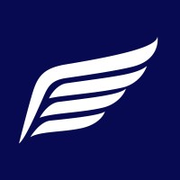
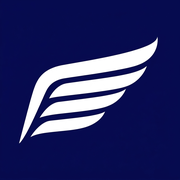
feat: full-resolution mark, cut out from its tile
The supplied 1024px logo replaces the 200px thumbnail everything was being
generated from. Its navy samples at #060B4F, so the sampled palette holds.

Cut the wing out of its navy tile into a transparent PNG, computing alpha per
pixel from how far each has travelled from navy toward white, which keeps the
antialiased edges. The nav and hero now use the cut-out: no tile edge, and the
mark fills its footprint instead of spending most of it on the tile's padding.

Favicons, apple touch icon and the social card regenerated from the real source
rather than upscaled from a thumbnail.

diff --git a/index.html b/index.html
@@ -38,7 +38,7 @@
 <nav class="nav">
   <div class="wrap">
     <a class="brand" href="#home">
-      <img src="assets/cada-logo.jpeg" alt="">
+      <img src="assets/cada-wing.png" alt="">
       <span>CADA</span>
     </a>
     <div class="nav-links">
@@ -57,7 +57,7 @@
     <header class="hero">
       <canvas id="field" aria-hidden="true"></canvas>
       <div class="hero-inner">
-        <img class="hero-mark" src="assets/cada-logo.jpeg" alt="Claremont Aerospace &amp; Defense Association">
+        <img class="hero-mark" src="assets/cada-wing.png" alt="Claremont Aerospace &amp; Defense Association">
         <h1>Claremont Aerospace<br><span class="amp">&amp;</span> Defense Association</h1>
         <p class="hero-line">Engineering, capital, and policy judgment for companies building in aerospace and defense.</p>
         <dl class="triptych"><div><dt>Technical</dt><dd>Can it be built?</dd></div><div><dt>Finance</dt><dd>Can it be funded, and can it win contracts?</dd></div><div><dt>Policy</dt><dd>Can it be sold to the government?</dd></div></dl>
@@ -108,6 +108,22 @@
         <p class="lede">Your engineers are booked on production-critical work, and the useful but not urgent items never reach the top of the list: a legacy process audit, a speculative idea nobody can justify senior hours on, a landscape scan, a question the team stopped seeing years ago. That is what we take. We are not trying to out-engineer anyone, and we do not take on classified work, controlled technical data, or anything inside an export control boundary.</p>
       </div>
     </section></section>
+  <section class="band band-deep">
+      <div class="wrap">
+        <p class="eyebrow">Modeled in a recent engagement</p>
+        <div class="proof">
+          <div><p class="v">$635K</p><p class="l">Modeled cost reduction per survey</p></div><div><p class="v">90%+</p><p class="l">Inspection time removed</p></div><div><p class="v">7</p><p class="l">Use cases scoped and specified</p></div><div><p class="v">3</p><p class="l">Practices on one account</p></div>
+        </div>
+      </div>
+    </section>
+
+    <section class="band band-paper">
+      <div class="wrap">
+        <p class="eyebrow on-paper">Scope</p>
+        <h2>The work your team never gets to.</h2>
+        <p class="lede">Your engineers are booked on production-critical work, and the useful but not urgent items never reach the top of the list: a legacy process audit, a speculative idea nobody can justify senior hours on, a landscape scan, a question the team stopped seeing years ago. That is what we take. We are not trying to out-engineer anyone, and we do not take on classified work, controlled technical data, or anything inside an export control boundary.</p>
+      </div>
+    </section></section>
   <section class="page" id="page-capabilities">
     <section class="band band-paper">
       <div class="wrap">
@@ -137,6 +153,19 @@
     </section>
 
     <section class="band band-ink">
+      <div class="wrap">
+        <p class="eyebrow">How an engagement works</p>
+        <h2>Scope first, then propose.</h2>
+        <div class="steps">
+          
+            <div class="step"><p class="k">Scope</p><p class="d">A short call to find the actual gap. We ask what is off limits from the start, including anything export controlled or classified, before proposing anything.</p></div>
+            <div class="step"><p class="k">Team</p><p class="d"><span class="todo">TO CONFIRM</span> Typical team size and how the three practices are staffed against one account.</p></div>
+            <div class="step"><p class="k">Cadence</p><p class="d"><span class="todo">TO CONFIRM</span> Semester length, check-in frequency, and whether engagements run as one project or continuously.</p></div>
+            <div class="step"><p class="k">Deliverable</p><p class="d"><span class="todo">TO CONFIRM</span> What a client receives at the end and in what form.</p></div>
+        </div>
+      </div>
+    </section></section>
+  <section class="band band-ink">
       <div class="wrap">
         <p class="eyebrow">How an engagement works</p>
         <h2>Scope first, then propose.</h2>
@@ -300,6 +329,70 @@
       </section>
       </div>
     </section></section>
+  <section class="team-group">
+        <header class="team-head">
+          <p class="eyebrow on-paper">Finance</p>
+          <p class="team-q">Can it be funded, and can it win contracts?</p>
+          <p class="team-n">4</p>
+        </header>
+        <div class="roster">
+          
+            <button class="pcard" type="button" data-member="0">
+              <span class="pcard-frame">
+                <img src="assets/people/shelby-tang.jpg" alt="Shelby Tang" loading="lazy">
+              </span>
+              <span class="pcard-name">Shelby Tang</span>
+              <span class="pcard-meta">CMC &#39;29 · Founder</span>
+            </button>
+            <button class="pcard" type="button" data-member="5">
+              <span class="pcard-frame">
+                <img src="assets/people/krish-malhotra.jpg" alt="Krish Malhotra" loading="lazy">
+              </span>
+              <span class="pcard-name">Krish Malhotra</span>
+              <span class="pcard-meta">CMC &#39;28</span>
+            </button>
+            <button class="pcard" type="button" data-member="6">
+              <span class="pcard-frame">
+                <img src="assets/people/lalita-poolvoralaks.jpg" alt="Lalita Poolvoralaks" loading="lazy">
+              </span>
+              <span class="pcard-name">Lalita Poolvoralaks</span>
+              <span class="pcard-meta">CMC &#39;27</span>
+            </button>
+            <button class="pcard" type="button" data-member="7">
+              <span class="pcard-frame">
+                <img src="assets/people/shayan-abbasi.jpg" alt="Shayan Abbasi" loading="lazy">
+              </span>
+              <span class="pcard-name">Shayan Abbasi</span>
+              <span class="pcard-meta">CMC &#39;29</span>
+            </button>
+        </div>
+      </section>
+      <section class="team-group">
+        <header class="team-head">
+          <p class="eyebrow on-paper">Policy</p>
+          <p class="team-q">Can it be sold to the government?</p>
+          <p class="team-n">2</p>
+        </header>
+        <div class="roster">
+          
+            <button class="pcard" type="button" data-member="8">
+              <span class="pcard-frame">
+                <img src="assets/people/jasper-langley-hawthorne.jpg" alt="Jasper Langley-Hawthorne" loading="lazy">
+              </span>
+              <span class="pcard-name">Jasper Langley-Hawthorne</span>
+              <span class="pcard-meta">CMC &#39;27</span>
+            </button>
+            <button class="pcard" type="button" data-member="9">
+              <span class="pcard-frame">
+                <img src="assets/people/andrew-nelson.jpg" alt="Andrew Nelson" loading="lazy">
+              </span>
+              <span class="pcard-name">Andrew Nelson</span>
+              <span class="pcard-meta">CMC &#39;29</span>
+            </button>
+        </div>
+      </section>
+      </div>
+    </section></section>
   <section class="page" id="page-join">
     <section class="band band-ink">
       <div class="wrap">
@@ -314,6 +407,15 @@
     </section>
 
     <section class="band band-paper">
+      <div class="wrap">
+        <p class="eyebrow on-paper">Training</p>
+        <h2>The analyst training program</h2>
+        <p class="lede">New analysts are trained on the federal data sources the work actually runs on: USAspending, FPDS, SEC EDGAR, and the procurement records underneath them. You learn to find what a company has won, from whom, and on what terms, which is a skill almost nobody graduates with.</p>
+        <p class="eyebrow on-paper" style="margin-top:3rem">Who we look for</p>
+        <ul class="plainlist"><li>Engineers who have built and flown something</li><li>Analysts comfortable in primary source data rather than summaries</li><li>Anyone who can read a procurement regulation without flinching</li></ul>
+      </div>
+    </section></section>
+  <section class="band band-paper">
       <div class="wrap">
         <p class="eyebrow on-paper">Training</p>
         <h2>The analyst training program</h2>

diff --git a/styles.css b/styles.css
@@ -128,7 +128,7 @@ a { color: inherit; }
 .nav .wrap { display: flex; align-items: center; gap: 1.5rem; width: 100%; }
 
 .brand { display: flex; align-items: center; gap: 0.7rem; text-decoration: none; margin-right: auto; }
-.brand img { width: 30px; height: 30px; border-radius: 5px; display: block; }
+.brand img { width: 38px; height: auto; display: block; }
 .brand span {
   font-family: var(--display); color: var(--white);
   font-size: 17px; letter-spacing: 0.14em; text-transform: uppercase;
@@ -160,10 +160,12 @@ a { color: inherit; }
 
 .hero-inner { position: relative; z-index: 2; padding: calc(var(--nav-h) + 3rem) var(--pad) 6rem; }
 
+/* The mark is a cut-out on transparency rather than the square tile it ships
+   in, so it sits on the ground directly instead of inside a visible panel, and
+   fills its footprint instead of spending most of it on the tile's padding. */
 .hero-mark {
-  width: 92px; height: 92px; border-radius: 14px;
-  display: block; margin: 0 auto 2.6rem;
-  box-shadow: 0 0 0 1px var(--ink-line), 0 30px 70px -30px rgba(0,0,0,0.9);
+  width: clamp(128px, 15vw, 186px); height: auto;
+  display: block; margin: 0 auto 2.4rem;
 }
 
 .hero h1 {

diff --git a/render.js b/render.js
@@ -73,7 +73,7 @@ function homeHTML() {
     <header class="hero">
       <canvas id="field" aria-hidden="true"></canvas>
       <div class="hero-inner">
-        <img class="hero-mark" src="assets/cada-logo.jpeg" alt="${esc(C.org.name)}">
+        <img class="hero-mark" src="assets/cada-wing.png" alt="${esc(C.org.name)}">
         <h1>Claremont Aerospace<br><span class="amp">&amp;</span> Defense Association</h1>
         <p class="hero-line">${txt(C.org.heroLine)}</p>
         <dl class="triptych">${heroTriptych()}</dl>

diff --git a/README.md b/README.md
@@ -137,9 +137,16 @@ file shipped here and the one that matched DIN Condensed Bold. Asking for 700
 would make the browser fake a heavier face and the labels would come out fatter
 than the design.
 
-**Known limitation.** The logo is a 200 by 200 pixel JPEG. That is enough for the
-navigation mark and the cover badge and not enough for anything larger. Get a
-vector version, or an export at 1000 pixels or more, before scaling it up.
+**The mark.** `assets/cada-logo.jpeg` is the 1024 pixel original and is kept as
+the source of record. The site itself uses `assets/cada-wing.png`, which is the
+same mark with its navy tile cut away, so it sits on the page ground directly
+rather than inside a visible panel and fills its footprint instead of spending
+most of it on the tile's padding.
+
+If the mark is ever redrawn, replace `cada-logo.jpeg`, then regenerate the
+cut-out, the icons and the social card from it. There is still no vector version;
+1024 pixels is enough for every current use but a vector would be better if the
+mark ever goes on something printed.
 
 ## Building
 
